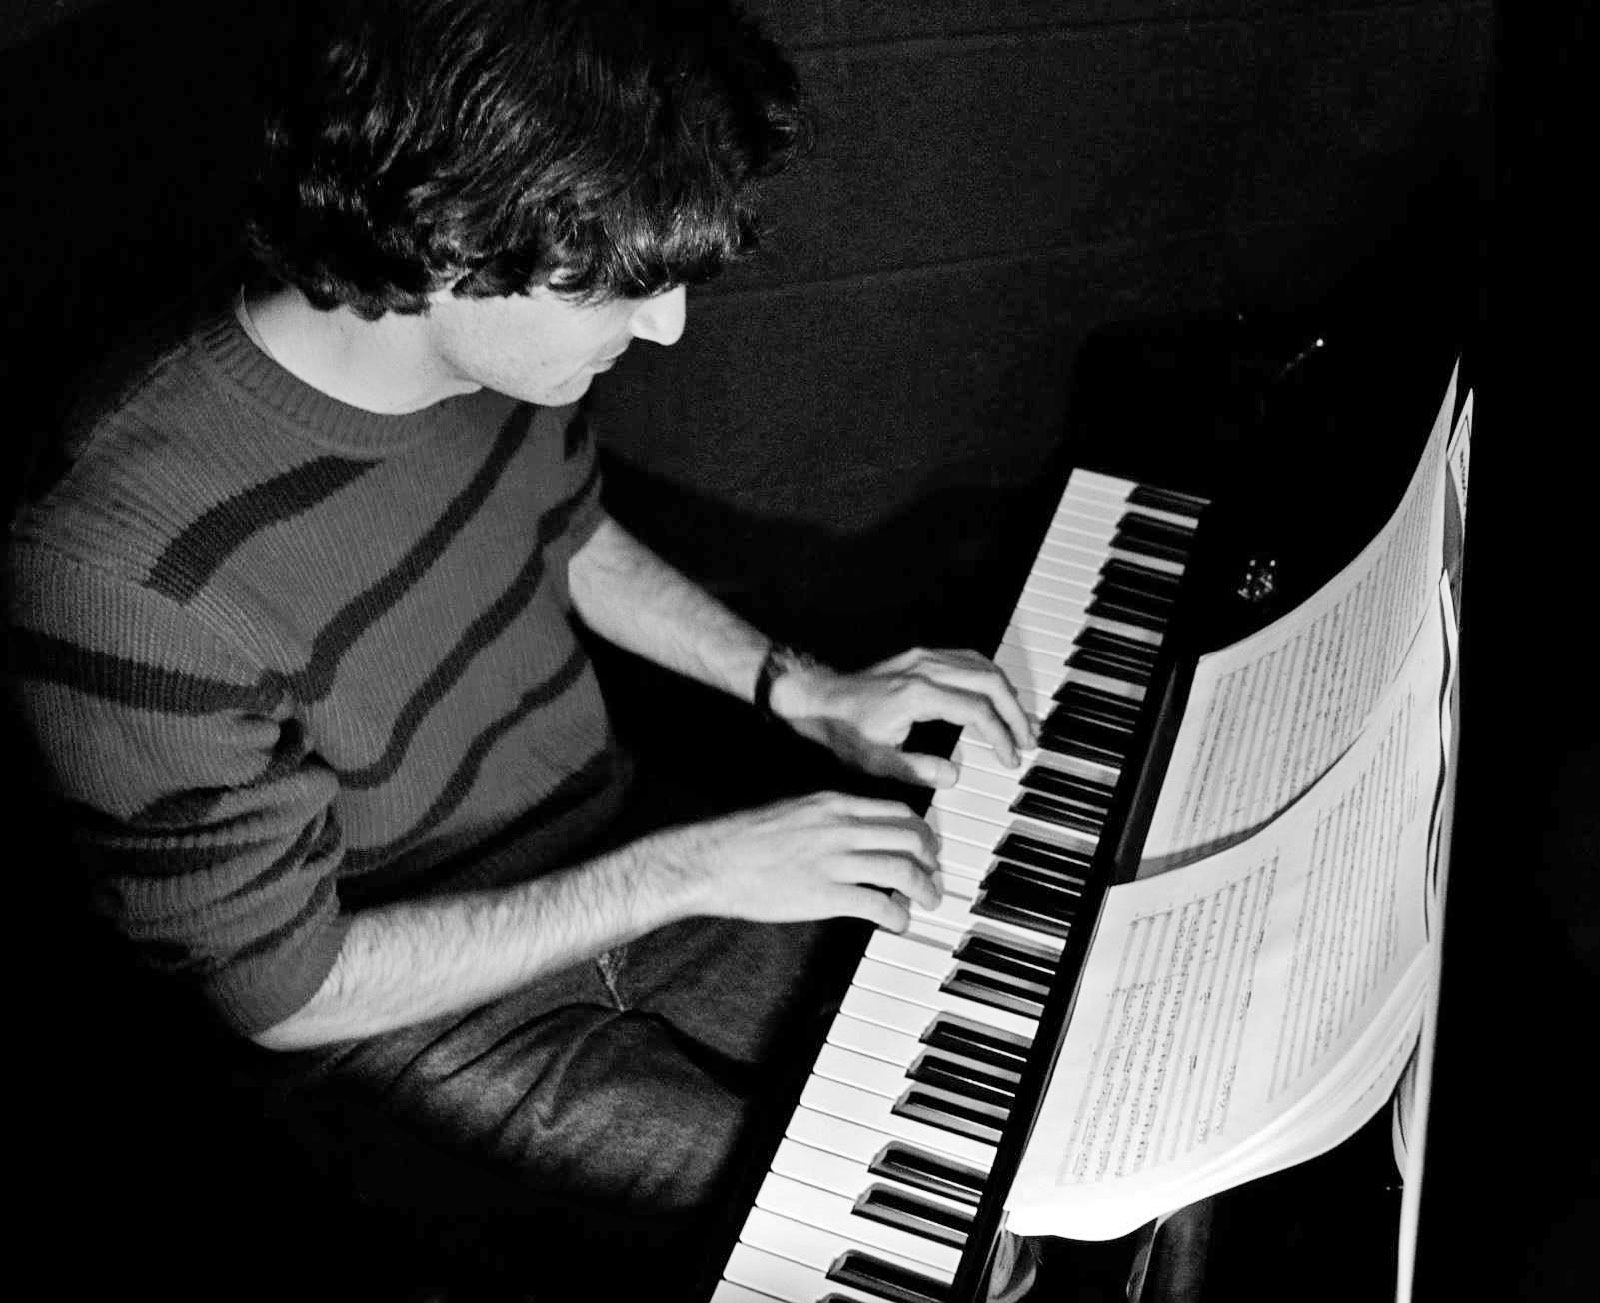
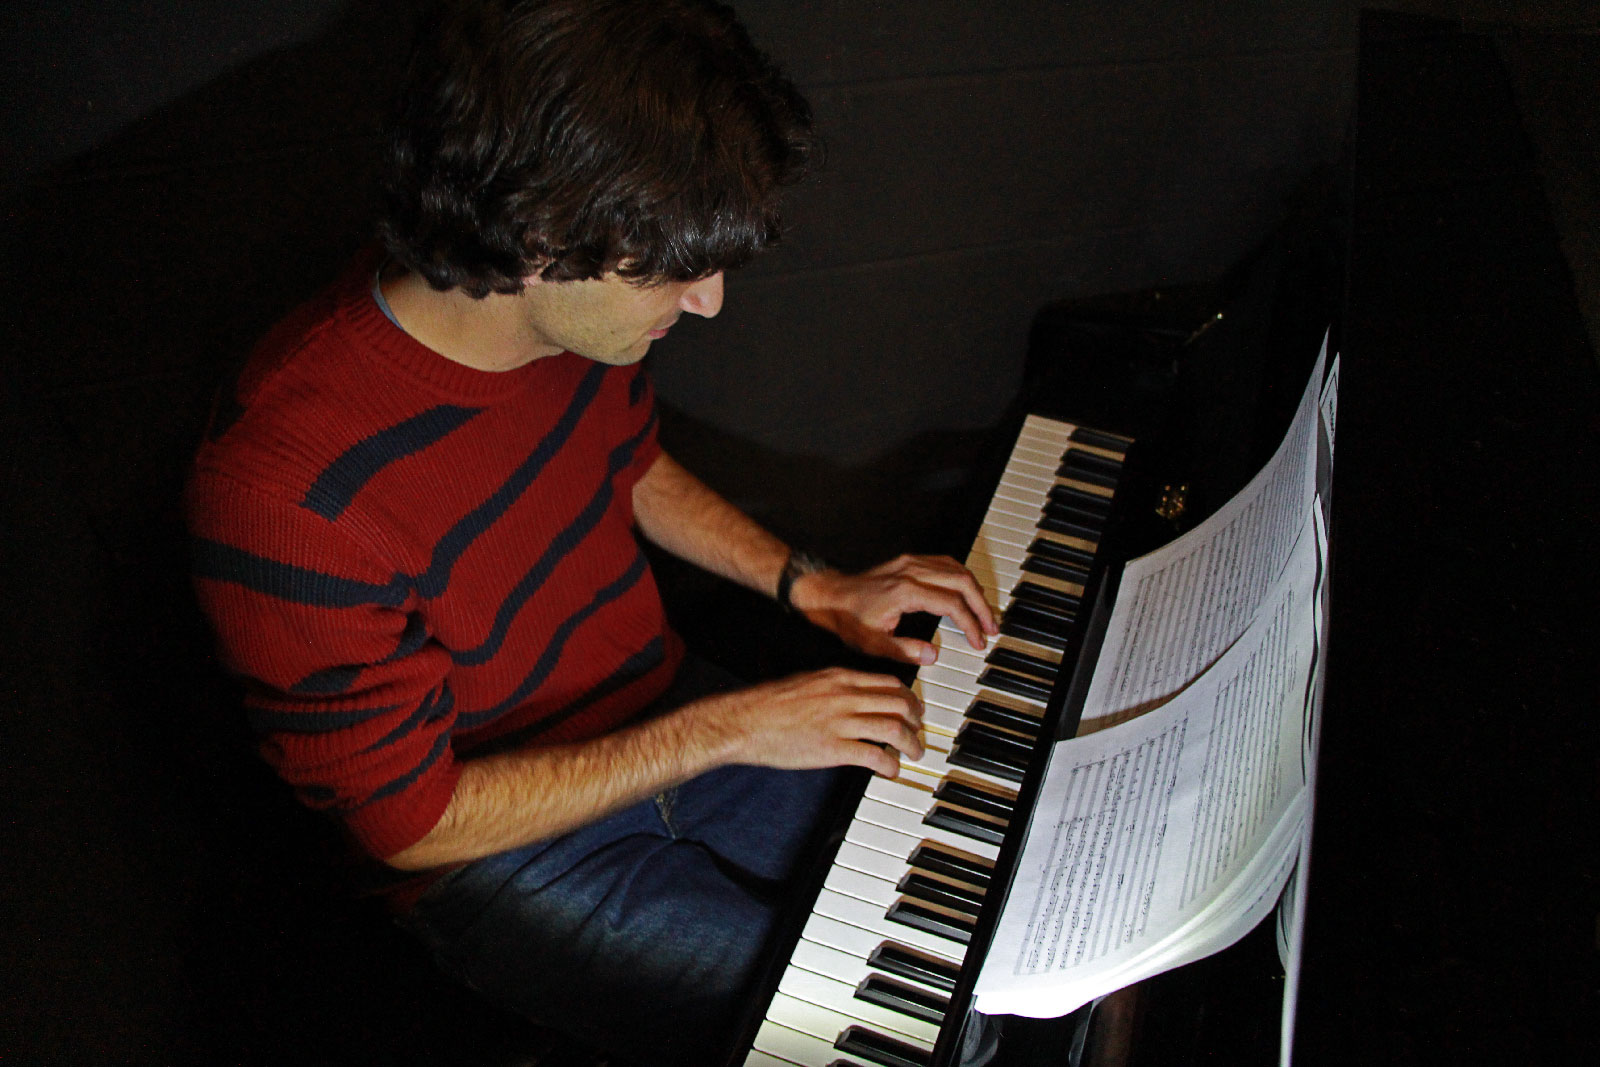
Web font changes, H&FJ :) Color image too. (placeholder page)

diff --git a/placeholder/css/screen.css b/placeholder/css/screen.css
@@ -67,38 +67,25 @@ article, aside, details, figcaption, figure, footer, header, hgroup, menu, nav, 
   display: block;
 }
 
-@font-face {
-  font-family: "Junction";
-  src: url("../fonts/Junction-webfont.woff");
-  src: url("../fonts/Junction-webfont.svg");
-  src: url("../fonts/Junction-webfont.eot");
-  src: url("../fonts/Junction-webfont.ttf");
-}
-
 /* line 16, ../sass/screen.scss */
 * {
   box-sizing: border-box;
 }
 
-/* line 20, ../sass/screen.scss */
+/* line 48, ../sass/screen.scss */
 .background {
   background-image: url("../images/solomon.jpg");
   position: absolute;
   height: 100%;
   width: 100%;
   background-size: cover;
-  background-position: 0 0;
+  background-position: top center;
   top: 0;
   left: 0;
   z-index: -1;
 }
 
-/* line 32, ../sass/screen.scss */
-.coming-soon {
-  font-family: "Junction", arial, sans-serif;
-}
-
-/* line 36, ../sass/screen.scss */
+/* line 65, ../sass/screen.scss */
 html {
   position: relative;
   height: 100%;
@@ -106,57 +93,61 @@ html {
   background-color: black;
   color: white;
   text-align: center;
-  font-family: arial, helvetica, sans-serif;
+  font-family: 'Ideal Sans SSm A', 'Ideal Sans SSm B', arial, sans-serif;
+  font-weight: 300;
+  font-style: normal;
   min-height: 26rem;
 }
 @media all and (min-width: 32em) {
-  /* line 36, ../sass/screen.scss */
+  /* line 65, ../sass/screen.scss */
   html {
     min-height: 30rem;
   }
 }
 @media all and (min-width: 40em) {
-  /* line 36, ../sass/screen.scss */
+  /* line 65, ../sass/screen.scss */
   html {
     min-height: 35rem;
   }
 }
 
-/* line 55, ../sass/screen.scss */
+/* line 84, ../sass/screen.scss */
 h1 {
   font-size: 1.5rem;
   text-shadow: black 0 0 .25rem;
   margin-top: 2rem;
-  font-weight: bold;
   line-height: 1.5;
   margin-bottom: 1rem;
+  font-family: 'Ideal Sans SSm A', 'Ideal Sans SSm B', arial, sans-serif;
+  font-weight: 400;
+  font-style: normal;
 }
 @media all and (min-height: 30em) {
-  /* line 55, ../sass/screen.scss */
+  /* line 84, ../sass/screen.scss */
   h1 {
     margin-top: 8rem;
   }
 }
-/* line 67, ../sass/screen.scss */
+/* line 96, ../sass/screen.scss */
 h1 span {
   display: block;
 }
 @media all and (min-width: 25em) {
-  /* line 55, ../sass/screen.scss */
+  /* line 84, ../sass/screen.scss */
   h1 {
     font-size: 2rem;
     margin-bottom: 2rem;
   }
 }
 @media all and (min-width: 32em) {
-  /* line 55, ../sass/screen.scss */
+  /* line 84, ../sass/screen.scss */
   h1 {
     font-size: 2.5rem;
     margin-bottom: 3rem;
   }
 }
 @media all and (min-width: 40em) {
-  /* line 55, ../sass/screen.scss */
+  /* line 84, ../sass/screen.scss */
   h1 {
     font-size: 3rem;
     margin-bottom: 4rem;
@@ -164,65 +155,68 @@ h1 span {
   }
 }
 @media all and (min-width: 50em) {
-  /* line 55, ../sass/screen.scss */
+  /* line 84, ../sass/screen.scss */
   h1 {
     font-size: 4rem;
   }
 }
 
-/* line 88, ../sass/screen.scss */
+/* line 117, ../sass/screen.scss */
 h2 {
-  color: #5b77e2;
+  color: #2f67a6;
   max-width: 46rem;
   display: block;
-  text-transform: lowercase;
+  text-transform: uppercase;
   margin: 0 auto;
   padding: 1rem;
+  font-family: 'Ideal Sans SSm A', 'Ideal Sans SSm B', arial, sans-serif;
+  font-weight: 500;
+  font-style: normal;
 }
 @media all and (min-width: 30em) {
-  /* line 88, ../sass/screen.scss */
+  /* line 117, ../sass/screen.scss */
   h2 {
     font-size: 1.5rem;
     padding: 2rem;
   }
 }
 @media all and (min-width: 40em) {
-  /* line 88, ../sass/screen.scss */
+  /* line 117, ../sass/screen.scss */
   h2 {
     padding: 3rem;
     font-size: 2rem;
   }
 }
-/* line 104, ../sass/screen.scss */
+/* line 134, ../sass/screen.scss */
 h2:after {
   display: table;
   content: "";
   clear: both;
 }
 
-/* line 110, ../sass/screen.scss */
+/* line 140, ../sass/screen.scss */
 .main-wrapper {
   padding: 1rem;
 }
 
-/* line 114, ../sass/screen.scss */
+/* line 144, ../sass/screen.scss */
 .countdown_amount {
   font-family: arial, helvetica, sans-serif;
   margin-bottom: 0.5rem;
 }
 
-/* line 119, ../sass/screen.scss */
+/* line 149, ../sass/screen.scss */
 .hasCountdown {
   border: none;
   background-color: rgba(0, 0, 0, 0.7);
 }
 
-/* line 124, ../sass/screen.scss */
+/* line 154, ../sass/screen.scss */
 .hasCountdown span {
   display: block;
 }
 
-/* line 127, ../sass/screen.scss */
+/* line 157, ../sass/screen.scss */
 footer {
   position: absolute;
   bottom: 1rem;
@@ -230,9 +224,9 @@ footer {
   text-shadow: black 0 0 .25rem;
 }
 
-/* line 134, ../sass/screen.scss */
+/* line 164, ../sass/screen.scss */
 a {
-  color: #d7d7d7;
+  color: white;
   text-decoration: none;
   border-bottom: 1px #d7d7d7 dotted;
   display: inline-block;
@@ -240,7 +234,7 @@ a {
   border-radius: 1px;
   transition: all .5s;
 }
-/* line 143, ../sass/screen.scss */
+/* line 173, ../sass/screen.scss */
 a:hover {
   background-color: white;
   color: black;

diff --git a/placeholder/sass/screen.scss b/placeholder/sass/screen.scss
@@ -5,17 +5,45 @@
 
 @import "compass/reset";
 
-@font-face {
-	font-family: "Junction";
-	src: url("../fonts/Junction-webfont.woff");
-	src: url("../fonts/Junction-webfont.svg");
-	src: url("../fonts/Junction-webfont.eot");
-	src: url("../fonts/Junction-webfont.ttf");
-}
+// @font-face {
+// 	font-family: "Junction";
+// 	src: url("../fonts/Junction-webfont.woff");
+// 	src: url("../fonts/Junction-webfont.svg");
+// 	src: url("../fonts/Junction-webfont.eot");
+// 	src: url("../fonts/Junction-webfont.ttf");
+// }
 
 * {
 	box-sizing: border-box;
 }
+
+@mixin ideal-sans($weight,$italic) {
+	font-family: 'Ideal Sans SSm A', 'Ideal Sans SSm B', arial, sans-serif;
+	@if $weight == extraLight {
+		font-weight: 200;
+	}
+	@if $weight == light {
+		font-weight: 300;
+	}
+	@if $weight == book {
+		font-weight: 400;
+	}
+	@if $weight == medium {
+		font-weight: 500;
+	}
+	@if $weight == semibold {
+		font-weight: 600;
+	}
+	@if $weight == bold {
+		font-weight: 700;
+	}
+	@if $italic {
+		font-style: italic;
+	} @else {
+		font-style: normal;
+	}
+}
+$royal-blue: #2f67a6;
 
 .background {
 	background-image: url("../images/solomon.jpg");
@@ -23,15 +51,16 @@
 	height: 100%;
 	width: 100%;
 	background-size: cover;
-	background-position: 0 0;
+	background-position: top center;
 	top: 0;
 	left: 0;
 	z-index: -1;
 }
 
-.coming-soon {
-	font-family: "Junction", arial, sans-serif;
-}
+// .coming-soon {
+	// font-family: "Junction", arial, sans-serif;
+// 	@include ideal-sans(book,false);
+// }
 
 html {
 	position: relative;
@@ -40,7 +69,7 @@ html {
 	background-color: black;
 	color: white;
 	text-align: center;
-	font-family: arial, helvetica, sans-serif;
+	@include ideal-sans(light,false);
 	min-height: 26rem;
 
 	@media all and (min-width:32em ) {
@@ -56,9 +85,9 @@ h1 {
 	font-size: 1.5rem;
 	text-shadow: black 0 0 .25rem; 
 	margin-top: 2rem;
-	font-weight: bold;
 	line-height: 1.5;
 	margin-bottom: 1rem;
+	@include ideal-sans(book,false);
 
 	@media all and (min-height:30em) {
 		margin-top: 8rem;
@@ -86,12 +115,13 @@ h1 {
 }
 
 h2 {	
-	color: #5b77e2;
+	color: $royal-blue;
 	max-width: 46rem;
 	display: block;
-	text-transform: lowercase;
+	text-transform: uppercase;
 	margin: 0 auto;
 	padding:1rem;
+	@include ideal-sans(medium,false);
 	@media all and (min-width: 30em) {
 		font-size: 1.5rem;
 		padding: 2rem;
@@ -132,7 +162,7 @@ footer {
 
 }
 a {
-	color: #d7d7d7;
+	color: white;
 	text-decoration: none;
 	border-bottom: 1px #d7d7d7 dotted;
 	display: inline-block;

diff --git a/placeholder/index.html b/placeholder/index.html
@@ -9,6 +9,7 @@
         <title>Solomon Hoffman</title>
         <meta name="description" content="Solomon Hofman | Composer, Arranger/Orchestrator, Conductor, Musical Director, Pianist, Accordionist">
         <meta name="viewport" content="width=device-width">
+        <link rel="stylesheet" type="text/css" href="//cloud.typography.com/6164632/701142/css/fonts.css" />
         <link rel="stylesheet" type="text/css" href="/css/jquery.countdown.css">
         <link rel="stylesheet" href="/css/screen.css">
         <script src="/js/vendor/modernizr-2.6.2.min.js"></script>
